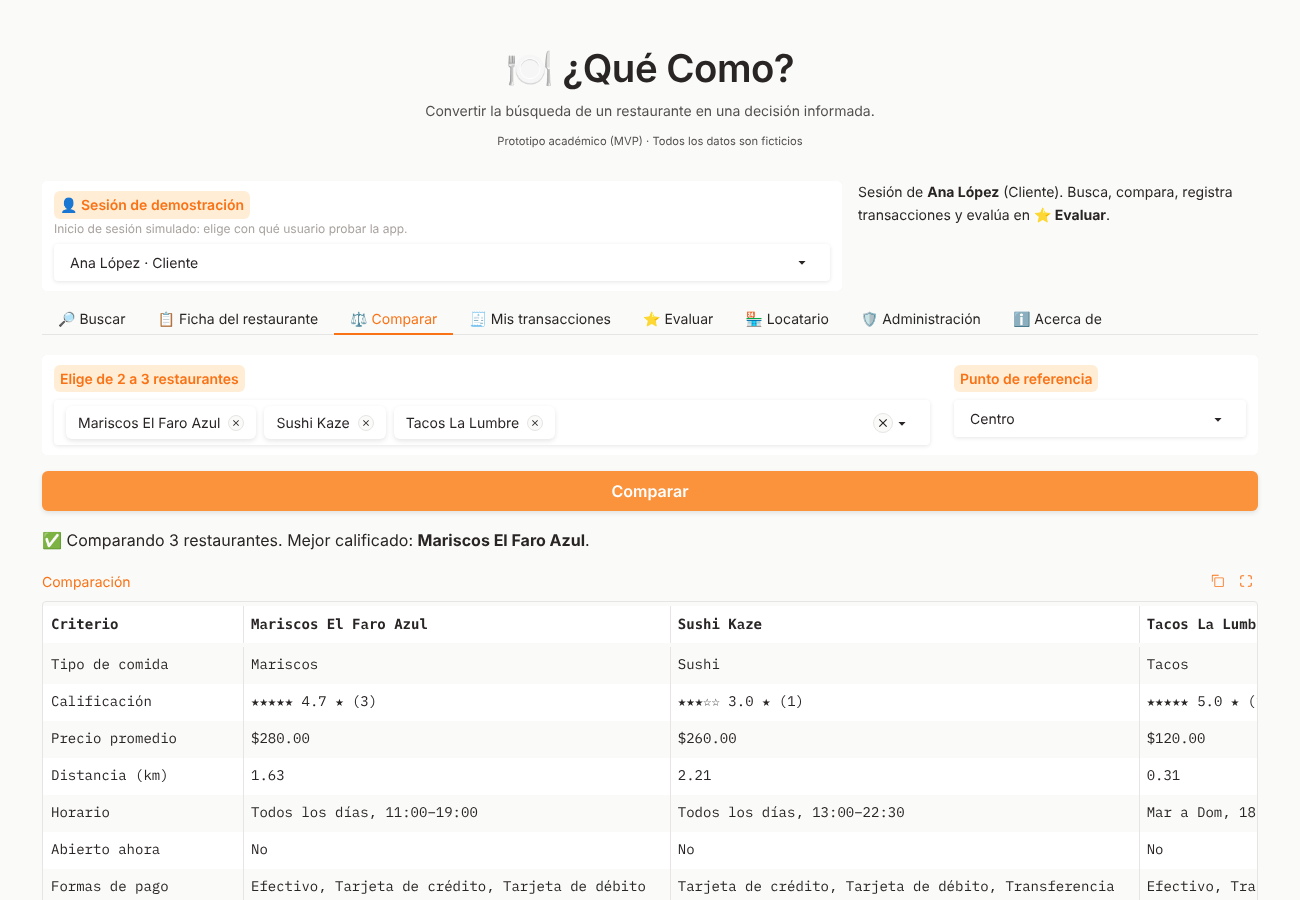
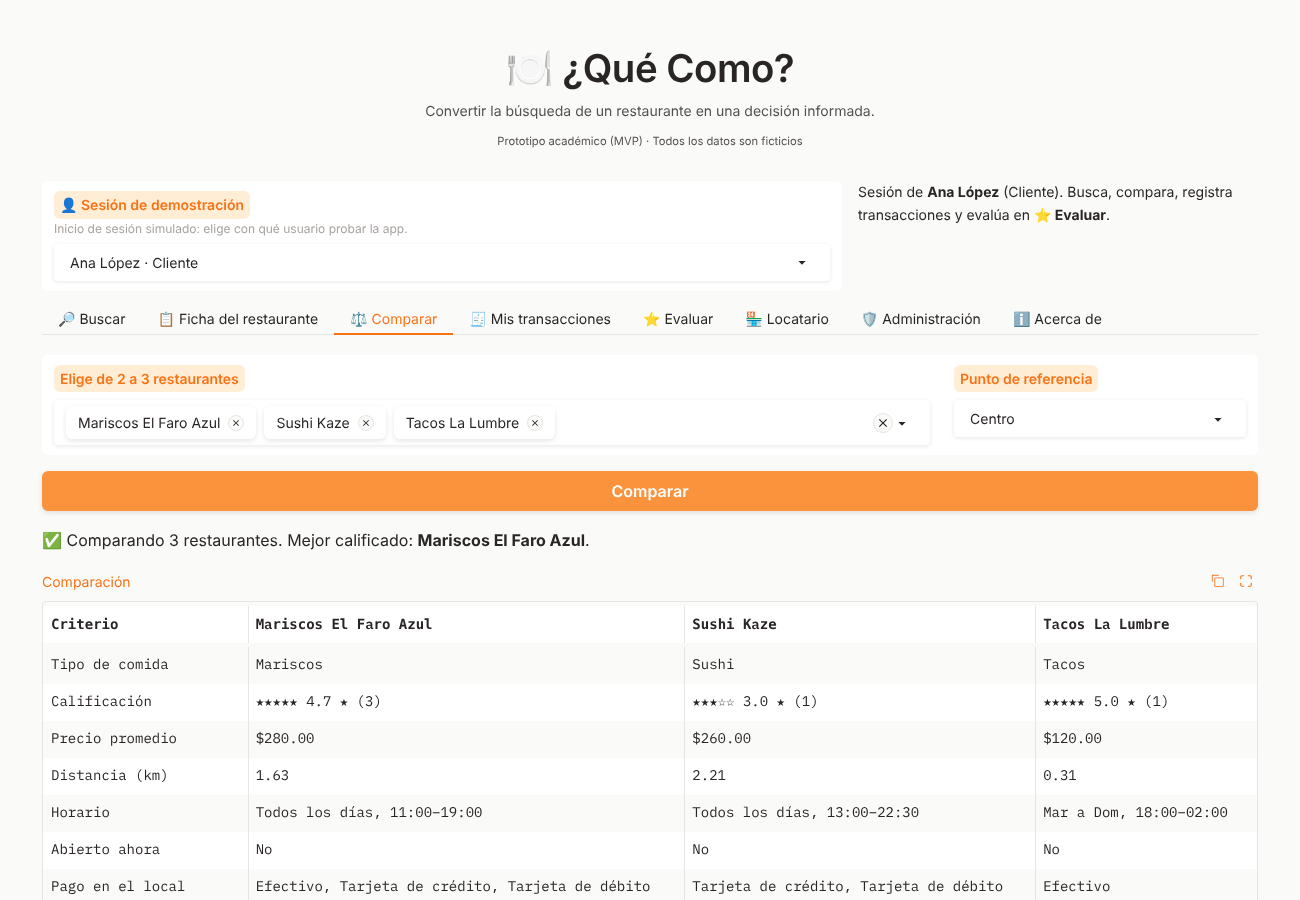
Add files via upload

diff --git a/src/quecomo/presentacion/interfaz.py b/src/quecomo/presentacion/interfaz.py
@@ -13,8 +13,7 @@ import gradio as gr
 
 from ..aplicacion.servicio_busqueda import MAXIMO_COMPARACION, Orden
 from ..configuracion import Aplicacion, crear_aplicacion
-from ..dominio.entidades import DIAS_SEMANA, LONGITUD_MAXIMA_COMENTARIO
-from ..infraestructura.datos_demo import CREDITO, DEBITO, EFECTIVO, TRANSFERENCIA
+from ..dominio.entidades import DIAS_SEMANA, FORMAS_PAGO_PERMITIDAS, LONGITUD_MAXIMA_COMENTARIO
 from .vista import (
     HORARIO_CUALQUIERA,
     OPCIONES_HORARIO,
@@ -73,7 +72,8 @@ tampoco puede fabricarla: así nadie se habilita una evaluación a sí mismo.
 ### Limitaciones del prototipo
 - El inicio de sesión es **simulado** (se elige un usuario de demostración).
 - Los datos viven **en memoria**: se reinician al reiniciar la aplicación.
-- La «transacción» es un registro declarado, no un cobro real. Ver `docs/` en el repositorio.
+- ¿Qué Como? **no ofrece pagos en línea**: el pago se hace en el restaurante y la «transacción» es
+  solo el registro del consumo. Ver `docs/` en el repositorio.
 """
 
 
@@ -81,7 +81,7 @@ def construir_interfaz(app: Aplicacion | None = None) -> gr.Blocks:
     vista = Vista(app or crear_aplicacion())
     hoy = vista.app.reloj().date()
     usuario_inicial = 1
-    formas_pago = [EFECTIVO, DEBITO, CREDITO, TRANSFERENCIA]
+    formas_pago = list(FORMAS_PAGO_PERMITIDAS)
 
     with gr.Blocks(title="¿Qué Como?", analytics_enabled=False) as demo:
         gr.HTML(ENCABEZADO)
@@ -106,7 +106,7 @@ def construir_interfaz(app: Aplicacion | None = None) -> gr.Blocks:
                         b_punto = gr.Dropdown(vista.opciones_puntos(), value="Centro", label="Punto de referencia")
                         b_distancia = gr.Slider(0.5, 15, value=15, step=0.5, label="Distancia máxima (km)")
                         b_horario = gr.Dropdown(OPCIONES_HORARIO, value=HORARIO_CUALQUIERA, label="Horario")
-                        b_pago = gr.Dropdown(vista.opciones_formas_pago(), value=TODAS, label="Forma de pago")
+                        b_pago = gr.Dropdown(vista.opciones_formas_pago(), value=TODAS, label="Forma de pago en el local")
                         b_calificacion = gr.Slider(0, 5, value=0, step=0.5, label="Calificación mínima")
                         b_promo = gr.Checkbox(label="Solo con promoción vigente")
                         b_orden = gr.Radio([o.value for o in Orden], value=Orden.RANKING.value, label="Ordenar por")
@@ -149,11 +149,13 @@ def construir_interfaz(app: Aplicacion | None = None) -> gr.Blocks:
             with gr.Tab("🧾 Mis transacciones"):
                 gr.Markdown(
                     "Registra tu consumo en un restaurante. Queda **PENDIENTE** hasta que el "
-                    "restaurante lo confirme y lo complete; solo entonces podrás evaluar."
+                    "restaurante lo confirme y lo complete; solo entonces podrás evaluar.  \n"
+                    "ℹ ¿Qué Como? **no procesa pagos**: pagas directamente en el restaurante. "
+                    "Aquí solo registras el consumo como evidencia para tu evaluación."
                 )
                 with gr.Row():
                     t_restaurante = gr.Dropdown(vista.opciones_restaurantes(), label="Restaurante", scale=2)
-                    t_importe = gr.Number(label="Importe (MXN)", value=250, minimum=1)
+                    t_importe = gr.Number(label="Importe consumido (MXN)", value=250, minimum=1)
                     t_boton = gr.Button("Registrar transacción", variant="primary")
                 t_mensaje = gr.Markdown(elem_classes="mensaje")
                 t_tabla = gr.Dataframe(interactive=False, wrap=True, label="Mis transacciones")
@@ -217,7 +219,7 @@ def construir_interfaz(app: Aplicacion | None = None) -> gr.Blocks:
                             l_apertura = gr.Textbox(label="Apertura (HH:MM)")
                             l_cierre = gr.Textbox(label="Cierre (HH:MM)")
                         with gr.Row():
-                            l_pagos = gr.CheckboxGroup(formas_pago, label="Formas de pago")
+                            l_pagos = gr.CheckboxGroup(formas_pago, label="Formas de pago aceptadas en el local")
                             l_fecha = gr.Textbox(label="Fecha de apertura (AAAA-MM-DD)")
                         with gr.Row():
                             l_guardar = gr.Button("Guardar cambios", variant="primary")

diff --git a/src/quecomo/infraestructura/datos_demo.py b/src/quecomo/infraestructura/datos_demo.py
@@ -14,6 +14,7 @@ from __future__ import annotations
 from datetime import date, datetime, time, timedelta
 
 from ..dominio.entidades import (
+    FORMAS_PAGO_PERMITIDAS,
     Evaluacion,
     Horario,
     Menu,
@@ -33,12 +34,8 @@ from ..dominio.repositorios import (
 )
 
 TODOS = frozenset(range(7))
-EFECTIVO, DEBITO, CREDITO, TRANSFERENCIA = (
-    "Efectivo",
-    "Tarjeta de débito",
-    "Tarjeta de crédito",
-    "Transferencia",
-)
+# Solo pagos en el local: ¿Qué Como? no maneja pagos en línea (RN-07).
+EFECTIVO, DEBITO, CREDITO = FORMAS_PAGO_PERMITIDAS
 
 # (nombre, latitud, longitud) — coordenadas de demostración.
 PUNTOS_REFERENCIA: list[tuple[str, float, float]] = [
@@ -109,7 +106,7 @@ def _restaurantes(hoy: date) -> list[Restaurante]:
             categoria="Tacos",
             ubicacion=Ubicacion("Calle Fogón 45", 29.0741, -110.9530, "Centro"),
             horario=h(frozenset({1, 2, 3, 4, 5, 6}), "18:00", "02:00"),
-            formas_pago=frozenset({EFECTIVO, TRANSFERENCIA}),
+            formas_pago=frozenset({EFECTIVO}),
             precio_promedio=120,
             fecha_apertura=date(2018, 9, 1),
             locatario_id=4,
@@ -127,7 +124,7 @@ def _restaurantes(hoy: date) -> list[Restaurante]:
             categoria="Cafetería",
             ubicacion=Ubicacion("Blvd. Sahuaro 300", 29.0868, -110.9615, "Zona Universitaria"),
             horario=h(frozenset({0, 1, 2, 3, 4, 5}), "07:00", "21:00"),
-            formas_pago=frozenset({EFECTIVO, DEBITO, CREDITO, TRANSFERENCIA}),
+            formas_pago=frozenset({EFECTIVO, DEBITO, CREDITO}),
             precio_promedio=110,
             fecha_apertura=date(2021, 2, 10),
             locatario_id=4,
@@ -163,7 +160,7 @@ def _restaurantes(hoy: date) -> list[Restaurante]:
             categoria="Sushi",
             ubicacion=Ubicacion("Plaza Oriente local 8", 29.0650, -110.9350, "Centro"),
             horario=h(TODOS, "13:00", "22:30"),
-            formas_pago=frozenset({DEBITO, CREDITO, TRANSFERENCIA}),
+            formas_pago=frozenset({DEBITO, CREDITO}),
             precio_promedio=260,
             fecha_apertura=date(2016, 6, 5),
             locatario_id=5,
@@ -198,7 +195,7 @@ def _restaurantes(hoy: date) -> list[Restaurante]:
             categoria="Vegetariana",
             ubicacion=Ubicacion("Av. Jardín 77", 29.0880, -110.9990, "Zona Poniente"),
             horario=h(frozenset({0, 1, 2, 3, 4, 5}), "09:00", "18:00"),
-            formas_pago=frozenset({DEBITO, CREDITO, TRANSFERENCIA}),
+            formas_pago=frozenset({DEBITO, CREDITO}),
             precio_promedio=180,
             fecha_apertura=date(2022, 8, 1),
             locatario_id=6,

diff --git a/src/quecomo/presentacion/vista.py b/src/quecomo/presentacion/vista.py
@@ -229,7 +229,7 @@ class Vista:
             f"**Ubicación:** {r.ubicacion.direccion}, {r.ubicacion.zona}"
             + (f" · a {info.distancia_km} km de {punto}" if info.distancia_km is not None else "")
             + "  ",
-            f"**Formas de pago:** {', '.join(sorted(r.formas_pago))}  ",
+            f"**Formas de pago en el local:** {', '.join(sorted(r.formas_pago))}  ",
             f"**Antigüedad:** {info.antiguedad_anios} año(s) (desde {r.fecha_apertura:%Y})",
         ]
         promos = r.promociones_vigentes(hoy)
@@ -278,7 +278,7 @@ class Vista:
             "Distancia (km)": lambda x: x.distancia_km if x.distancia_km is not None else "—",
             "Horario": lambda x: x.restaurante.horario.describir(),
             "Abierto ahora": lambda x: "Sí" if x.abierto else "No",
-            "Formas de pago": lambda x: ", ".join(sorted(x.restaurante.formas_pago)),
+            "Pago en el local": lambda x: ", ".join(sorted(x.restaurante.formas_pago)),
             "Promociones vigentes": lambda x: "; ".join(p.descripcion for p in x.restaurante.promociones_vigentes(hoy)) or "—",
             "Antigüedad (años)": lambda x: x.antiguedad_anios,
             "Productos en menú": lambda x: len(x.restaurante.productos()),

diff --git a/src/quecomo/dominio/entidades.py b/src/quecomo/dominio/entidades.py
@@ -43,6 +43,11 @@ LONGITUD_MAXIMA_COMENTARIO = 500
 
 DIAS_SEMANA = ("Lun", "Mar", "Mié", "Jue", "Vie", "Sáb", "Dom")
 
+#: Formas de pago que el restaurante acepta **en el local** (RN-07).
+#: ¿Qué Como? no procesa ni ofrece pagos en línea (transferencias, pasarelas,
+#: carteras digitales): solo informa cómo se puede pagar al consumir.
+FORMAS_PAGO_PERMITIDAS: tuple[str, ...] = ("Efectivo", "Tarjeta de débito", "Tarjeta de crédito")
+
 RADIO_TIERRA_KM = 6371.0
 
 
@@ -238,6 +243,13 @@ class Restaurante:
         self.precio_promedio = a_decimal(self.precio_promedio, "precio promedio")
         if not self.formas_pago:
             raise DatosInvalidos("Indica al menos una forma de pago.")
+        no_permitidas = set(self.formas_pago) - set(FORMAS_PAGO_PERMITIDAS)
+        if no_permitidas:
+            raise DatosInvalidos(
+                f"Forma de pago no permitida: {', '.join(sorted(no_permitidas))}. "
+                "¿Qué Como? no maneja pagos en línea; solo se registran pagos en el local "
+                f"({', '.join(FORMAS_PAGO_PERMITIDAS)})."
+            )
 
     # -- Conocer --------------------------------------------------------- #
 

diff --git a/tests/test_busqueda.py b/tests/test_busqueda.py
@@ -46,9 +46,13 @@ class TestCA02Filtros:
         assert resultados and all(r.distancia_km <= 1 for r in resultados)
 
     def test_forma_de_pago(self, app_demo):
-        resultados = app_demo.busqueda.buscar(CriteriosBusqueda(forma_pago="Transferencia"))
-        assert all("Transferencia" in r.restaurante.formas_pago for r in resultados)
-        assert "Antojitos Doña Chayo" not in nombres(resultados)
+        resultados = app_demo.busqueda.buscar(CriteriosBusqueda(forma_pago="Tarjeta de crédito"))
+        assert resultados and all("Tarjeta de crédito" in r.restaurante.formas_pago for r in resultados)
+        assert "Antojitos Doña Chayo" not in nombres(resultados)  # solo efectivo
+
+    def test_rn07_no_hay_pagos_en_linea(self, app_demo):
+        """RN-07: ni el catálogo de filtros ni los restaurantes ofrecen pagos en línea."""
+        assert app_demo.busqueda.formas_pago() == ["Efectivo", "Tarjeta de crédito", "Tarjeta de débito"]
 
     def test_horario(self, app_demo):
         # Sábado 13:00: Antojitos (L-S 8-16) abierto; Tacos La Lumbre (18-02) cerrado.

diff --git a/tests/test_vista.py b/tests/test_vista.py
@@ -83,3 +83,13 @@ def test_formulario_del_locatario(vista):
     campos[0] = "Mariscos El Faro Azul Renovado"
     assert vista.guardar_restaurante(4, 1, *campos).startswith("✅")
     assert vista.app.restaurantes.obtener(1).nombre.endswith("Renovado")
+
+
+def test_rn07_interfaz_sin_pagos_en_linea(vista):
+    assert "Transferencia" not in vista.opciones_formas_pago()
+    texto, _ = vista.ficha(2, "Centro")
+    assert "Formas de pago en el local:** Efectivo" in texto
+    campos = vista.datos_formulario(1)
+    campos[9] = ["Efectivo", "Transferencia"]
+    mensaje = vista.guardar_restaurante(4, 1, *campos)
+    assert mensaje.startswith("⛔") and "pagos en línea" in mensaje

diff --git a/tests/test_restaurantes.py b/tests/test_restaurantes.py
@@ -48,6 +48,8 @@ def test_cliente_no_registra_restaurantes(app):
     [
         {"nombre": ""},
         {"formas_pago": []},
+        {"formas_pago": ["Efectivo", "Transferencia"]},  # RN-07: sin pagos en línea
+        {"formas_pago": ["Pago en línea"]},
         {"dias": []},
         {"apertura": "8am"},
         {"precio_promedio": 0},

diff --git a/src/quecomo/__init__.py b/src/quecomo/__init__.py
@@ -11,4 +11,4 @@ La regla central del producto: una evaluación solo es válida si está
 respaldada por una transacción COMPLETADA que aún no haya sido evaluada.
 """
 
-__version__ = "0.1.0"
+__version__ = "0.2.0"

diff --git a/docs/03_requisitos_y_reglas.md b/docs/03_requisitos_y_reglas.md
@@ -12,6 +12,7 @@
 | RN-04 | Una evaluación no puede usarse para crear posteriormente una transacción. | `Evaluacion.crear()` exige una transacción ya evaluable; no existe operación inversa |
 | RN-05 | Una transacción cancelada o incompleta no habilita la evaluación. | `Transaccion.es_valida()` → solo `COMPLETADA` |
 | RN-06 | Una transacción ya utilizada no habilita otra evaluación. | `Transaccion.vincular_evaluacion()` + candado del controlador + unicidad en `RepositorioEvaluaciones.guardar()` |
+| RN-07 | ¿Qué Como? no ofrece ni procesa pagos en línea. Solo se informan formas de pago en el local: efectivo, tarjeta de débito y tarjeta de crédito. *(Agregada en v0.2.0.)* | `FORMAS_PAGO_PERMITIDAS` y validación en `Restaurante.__post_init__()` |
 
 ## Requisitos funcionales
 
@@ -45,7 +46,7 @@
 |---|---|---|
 | RNF-01 | La interfaz debe estar completamente en español. | ✅ |
 | RNF-02 | Los mensajes de rechazo deben explicar el motivo con lenguaje claro. | ✅ |
-| RNF-03 | Las reglas de negocio deben tener pruebas automatizadas. | ✅ 110 pruebas, CI en GitHub Actions |
+| RNF-03 | Las reglas de negocio deben tener pruebas automatizadas. | ✅ 114 pruebas, CI en GitHub Actions |
 | RNF-04 | Publicar solo el nombre y la inicial del apellido de quien evalúa (minimización de datos). | ✅ `Usuario.nombre_publico()` |
 | RNF-05 | No mostrar públicamente el importe de las transacciones. | ✅ |
 | RNF-06 | Comentarios de 10 a 500 caracteres; calificación entera de 1 a 5. | ✅ `Evaluacion.validar()` |
@@ -58,3 +59,4 @@
 | ¿Puede el administrador completar transacciones? | **No.** Puede suspender restaurantes y moderar evaluaciones. | Nadie ajeno a la relación comercial debe fabricar evidencia. |
 | ¿Ocultar una evaluación libera la transacción? | **No.** | Evita borrar y reescribir evaluaciones para manipular el ranking. |
 | ¿Hay plazo para evaluar? | No en el MVP. | Pendiente de decisión de negocio. |
+| ¿Se ofrecen pagos en línea? | **No** (RN-07). Se eliminó «Transferencia» y la interfaz aclara que se paga en el local. | Observación de revisión del proyecto (v0.2.0): mantener el alcance en consulta y evaluación, sin manejo de dinero. |

diff --git a/docs/12_guia_github_y_despliegue.md b/docs/12_guia_github_y_despliegue.md
@@ -78,7 +78,36 @@ pinned: false
 
 > ⚠ La demo usa **inicio de sesión simulado** y **datos ficticios**. No permitas que personas reales capturen datos personales en ella (ver [10](10_cumplimiento_legal.md)).
 
-## 6. Exponer la app temporalmente desde tu computadora
+## 6. Desplegar en Render
+
+El repositorio ya incluye lo necesario:
+
+| Archivo | Para qué sirve |
+|---|---|
+| `render.yaml` | Define el servicio: comando de instalación, comando de inicio y variables |
+| `.python-version` | Fija Python 3.13 (Render usa 3.14 por defecto) |
+| `app.py` | Si existe la variable `PORT`, escucha en `0.0.0.0:$PORT`, como exige Render |
+
+**Opción A — Blueprint (recomendada):** en Render, *New → Blueprint*, elige tu repositorio y confirma. Render lee `render.yaml`.
+
+**Opción B — Web Service manual:** *New → Web Service*, elige el repositorio y configura:
+
+| Campo | Valor |
+|---|---|
+| Runtime | Python 3 |
+| Build Command | `pip install -r requirements.txt` |
+| Start Command | `python app.py` |
+
+### Errores frecuentes
+
+| Mensaje en el log | Causa | Solución |
+|---|---|---|
+| `Application exited early` justo después de `Running 'pip install -r requirements.txt'` | Pusiste el comando de instalación como **Start Command** | Start Command = `python app.py` (Settings → Build & Deploy) |
+| `No open ports detected` | La app escucha en `127.0.0.1` | Usa la versión actual de `app.py`, que lee `PORT` |
+| La primera visita tarda ~1 minuto | El plan gratuito suspende el servicio tras un rato sin uso | Normal en plan gratuito |
+| Se pierden evaluaciones y transacciones nuevas | Los datos viven en memoria y se reinician en cada arranque | Normal en el MVP; se resuelve con persistencia (hoja de ruta) |
+
+## 7. Exponer la app temporalmente desde tu computadora
 
 ```python
 # En app.py, solo para una demostración rápida:

diff --git a/docs/05_modelo_de_dominio.md b/docs/05_modelo_de_dominio.md
@@ -7,7 +7,7 @@
 | Concepto | Atributos esenciales | Responsabilidad | Clase |
 |---|---|---|---|
 | Usuario | id, nombre, contacto, rol, estado | Participa en transacciones y evaluaciones | `Usuario` |
-| Restaurante | id, nombre, descripción, categoría, horarios, formas de pago, precio promedio, fecha de apertura, estado | Información presentada al usuario | `Restaurante` |
+| Restaurante | id, nombre, descripción, categoría, horarios, formas de pago en el local (RN-07), precio promedio, fecha de apertura, estado | Información presentada al usuario | `Restaurante` |
 | Transacción | id, fecha, importe, estado, historial | Demuestra la relación comercial y decide si respalda una evaluación | `Transaccion` |
 | Evaluación | id, calificación, comentario, fecha, estado | Retroalimentación vinculada a una transacción | `Evaluacion` |
 | Menú | id, nombre, descripción, activo | Agrupa la oferta | `Menu` |

diff --git a/docs/08_trazabilidad.md b/docs/08_trazabilidad.md
@@ -29,6 +29,7 @@
 | Regla de evaluación | Guarda `[COMPLETADA AND noExisteEvaluacion]` | `puede_evaluarse()` | `test_completada_sin_evaluacion_habilita`, `test_ya_evaluada_no_habilita_otra` |
 | Seguridad | CA-08 | `autorizacion.exigir_propietario(..., permitir_admin=False)` | `TestCA08ControlDeEstados` |
 | Fiabilidad | RN-06 | Candado + unicidad en repositorio | `test_concurrencia_no_duplica_evaluaciones`, `test_repositorio_rechaza_duplicado_como_restriccion_unica` |
+| Revisión del proyecto | RN-07 sin pagos en línea | `FORMAS_PAGO_PERMITIDAS`, validación de `Restaurante` | `test_rn07_no_hay_pagos_en_linea`, `test_rn07_interfaz_sin_pagos_en_linea` |
 | Rol Administrador | Moderación (HT-01) | `ServicioRestaurantes.ocultar_evaluacion` | `TestAdministrador` |
 | Locatario | HU-09, HU-10, HU-11 | `ServicioRestaurantes` | `test_restaurantes.py` |
 
